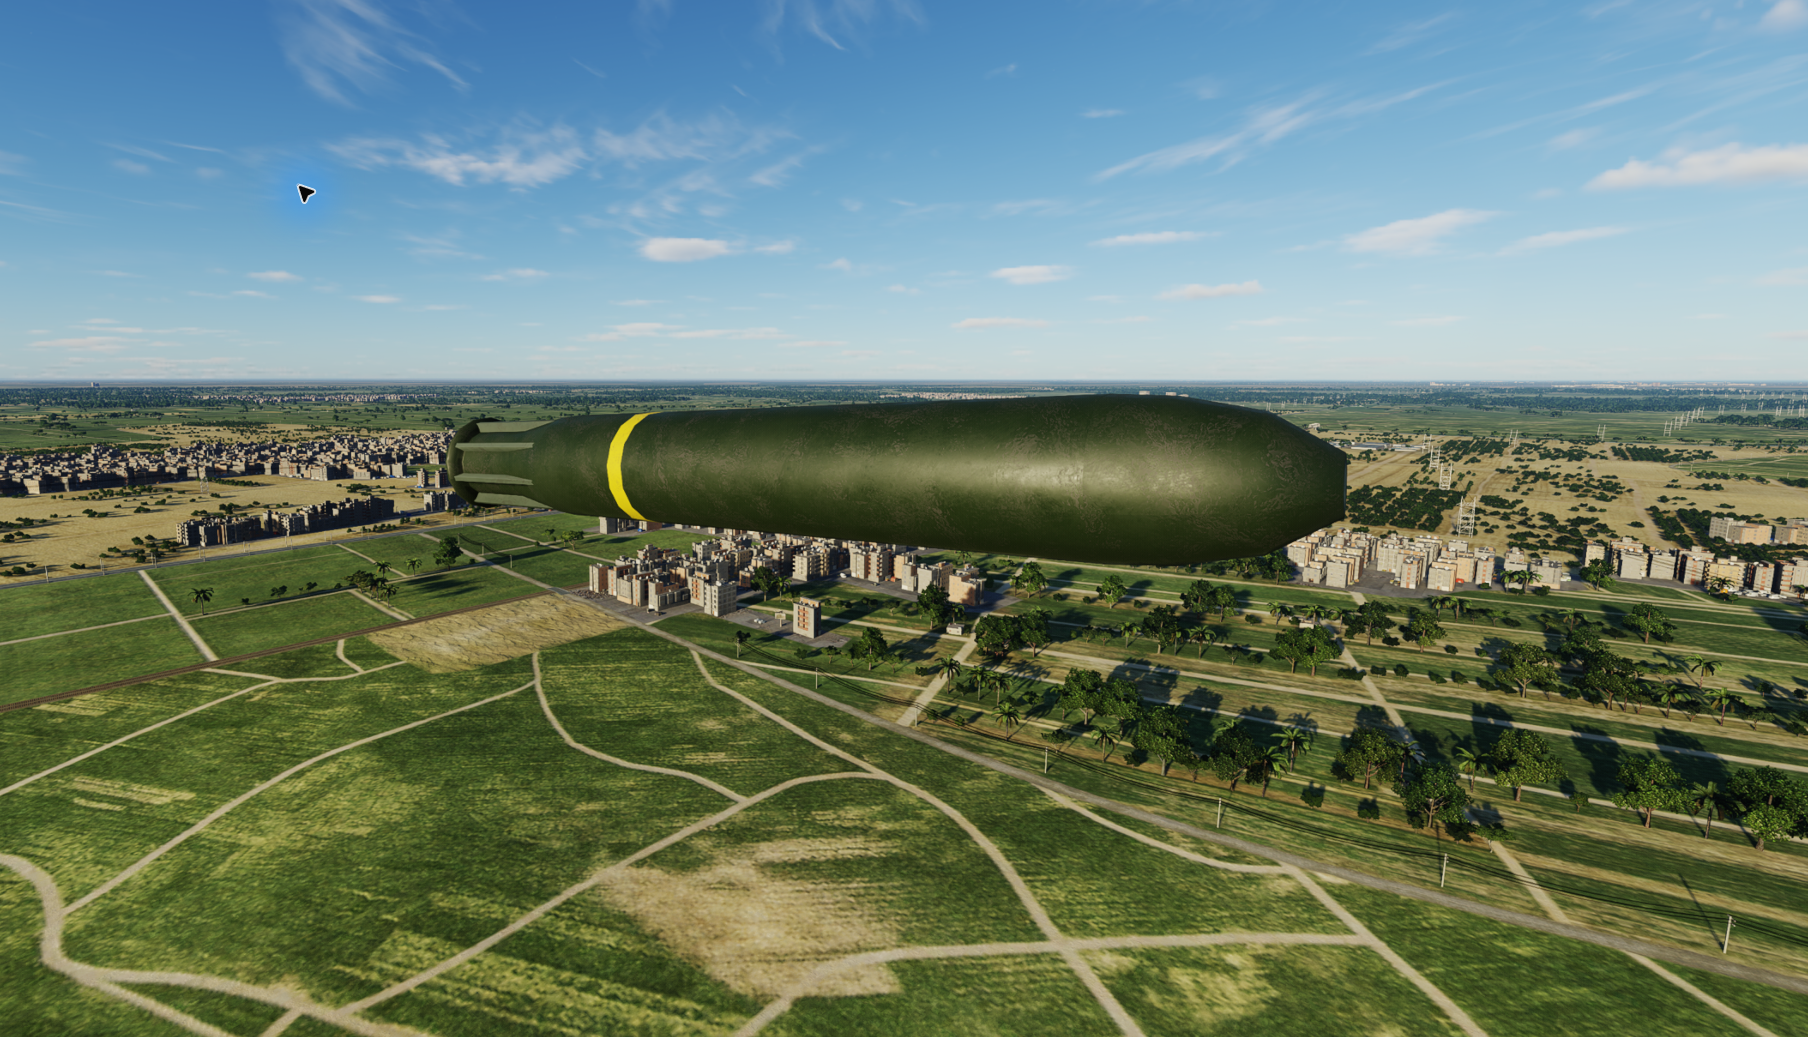
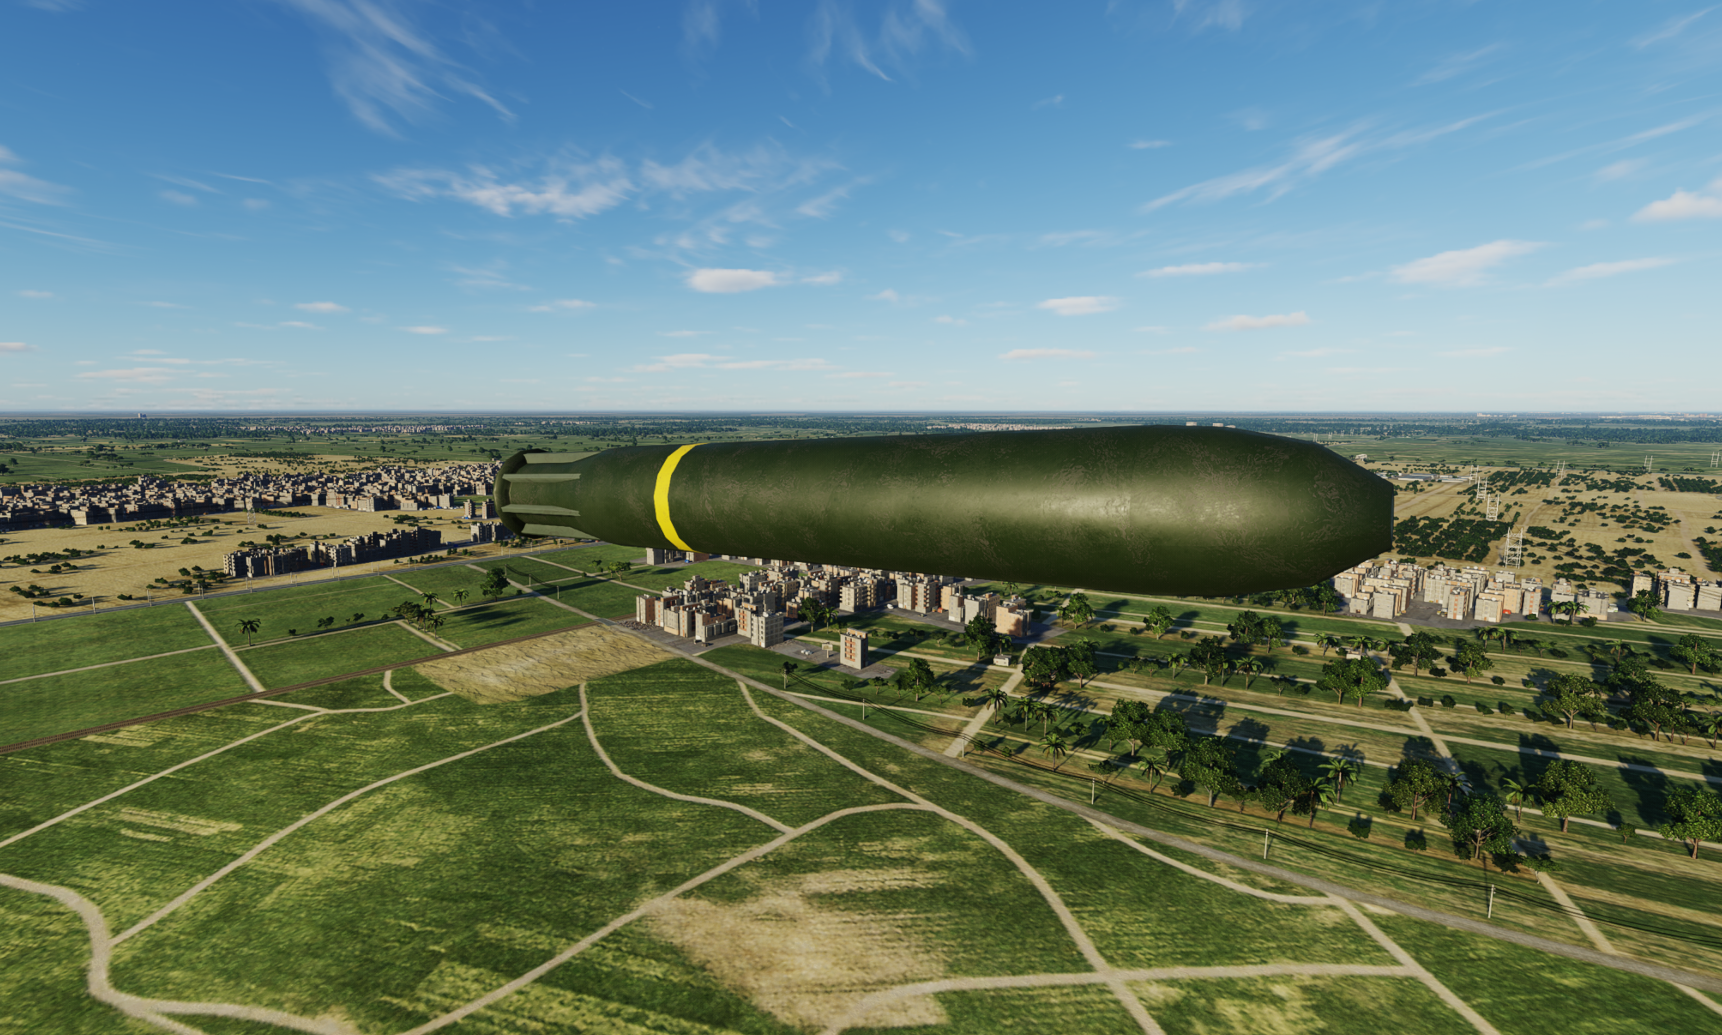
Simplify announcement signup and replace Calliope rocket photo

diff --git a/site/assets/site.css b/site/assets/site.css
@@ -10,7 +10,7 @@ dialog{border:1px solid #d5d8ce;border-radius:6px;background:#f8f7f3;color:#3033
 .development-preview-blurred{overflow:hidden}.development-preview-blurred .mod-photo{filter:saturate(.5) blur(1.75px)}
 .email-signup{width:100%;max-width:576px;margin:56px auto 0}.email-signup>p{font-size:15px}.email-signup .formkit-form{width:100%;max-width:100%;background-color:#23455a!important}
 .email-signup .formkit-form [data-style="minimal"]{padding:32px!important}.email-signup .formkit-form .formkit-header{font-size:22px!important;margin-bottom:22px!important}.email-signup .formkit-form .formkit-header h2{font-size:inherit!important;line-height:1.25!important}.email-signup .formkit-form .formkit-subheader{font-size:15px!important;margin:14px 0!important}.email-signup .formkit-form .formkit-fields{margin-top:20px!important}.email-signup .formkit-form :is(.formkit-field,.formkit-submit){margin-bottom:12px!important}.email-signup .formkit-form .formkit-input{padding:10px!important}.email-signup .formkit-form .formkit-submit>span{padding:10px 20px!important}
-.email-signup .formkit-form .formkit-background{background-image:linear-gradient(#15354b55,#15354b55),url('/assets/images/kit-signup-background.png')!important;background-size:cover!important;background-position:center!important;opacity:1!important}
+.email-signup .formkit-form .formkit-background{background-size:cover!important;background-position:center!important;opacity:1!important;box-shadow:inset 0 0 0 1000px #15354b55}
 .email-signup .formkit-form :is(.formkit-header,.formkit-header h2,.formkit-subheader,.formkit-subheader p,.formkit-guarantee,.formkit-guarantee p,.formkit-label){color:#fff!important}
 .email-signup .formkit-form .formkit-submit{background:#f79e00!important;color:#1d1d1b!important}.email-signup .formkit-form .formkit-submit:hover{background:#e08e00!important}.email-signup .formkit-form .formkit-submit>span{background:transparent!important}
 @media(max-width:1324px){.catalog{grid-template-columns:repeat(3,minmax(0,1fr))}}

diff --git a/email/kit-announcements.html b/email/kit-announcements.html
@@ -3,32 +3,13 @@
   .tpg-email img { max-width: 100%; height: auto; }
   .tpg-email a { color: #43523a; }
   .tpg-email .button { display: inline-block; padding: 12px 20px; background: #f79e00; color: #1d1d1b; text-decoration: none; border-radius: 4px; }
-  .tpg-preferences { margin-top: 28px; padding-top: 20px; border-top: 1px solid #d8dcd3; font-size: 14px; }
-  .tpg-preferences p { margin: 8px 0; }
+  .tpg-footer { margin-top: 28px; padding-top: 20px; border-top: 1px solid #d8dcd3; font-size: 14px; }
+  .tpg-footer p { margin: 8px 0; }
 </style>
 <div class="tpg-email">
   {{ message_content }}
-  <div class="tpg-preferences">
-    <p><strong>Your current engagement level:</strong></p>
-    {% if subscriber.tags contains "Official Mod Release Announcements" %}
-    <p>Official releases only</p>
-    {% endif %}
-    {% if subscriber.tags contains "Official and Release Candidate Announcements" %}
-    <p>Official releases + release candidates only</p>
-    {% endif %}
-    {% if subscriber.tags contains "All Releases, Candidates and Fixes" %}
-    <p>All releases, candidates, fixes and news</p>
-    {% endif %}
-    {% unless subscriber.tags contains "Official Mod Release Announcements" %}
-      {% unless subscriber.tags contains "Official and Release Candidate Announcements" %}
-        {% unless subscriber.tags contains "All Releases, Candidates and Fixes" %}
-        <p>No mod announcement level selected.</p>
-        {% endunless %}
-      {% endunless %}
-    {% endunless %}
-    <p>No sales, and never more than 1x per week at max engagement.</p>
-    <p><a href="{{ subscriber_preferences_url }}">Change alert level</a></p>
-    <p>Choose one level. To switch, uncheck your old level, check your new level, then save your preferences.</p>
+  <div class="tpg-footer">
+    <p>NO sales, once per week at maximum</p>
     <p><a href="{{ unsubscribe_url }}">Unsubscribe</a></p>
     <p>{{ address }}</p>
   </div>

diff --git a/site/assets/kit-signup.js b/site/assets/kit-signup.js
@@ -1,26 +1,17 @@
 export function customizeSignup(form) {
   const copy = [
     ['[data-element="header"] h2', 'Sign Up For Mod Announcements'],
-    ['[data-element="subheader"] p', 'Choose your desired level of engagement below'],
-    ['[data-element="guarantee"] p', 'No sales, and never more than 1x per week at max engagement'],
+    ['[data-element="subheader"] p', 'New releases, alpha candidates, bug fixes and feature enhancements.'],
+    ['[data-element="guarantee"] p', 'NO sales, once per week at maximum'],
   ];
   for (const [selector, text] of copy) {
     const element = form.querySelector(selector);
     if (element && element.textContent !== text) element.textContent = text;
   }
-  const labels = {
-    '24506150': 'Official releases only',
-    '24506152': 'Official releases + release candidates only',
-    '24506154': 'All releases, candidates, fixes and news',
-  };
-  for (const option of form.querySelectorAll('select[name="tags[]"] option')) {
-    const label = labels[option.value];
-    if (label && option.textContent !== label) option.textContent = label;
-  }
 }
 
 // Kit inserts the real subscription form asynchronously. Change only its copy;
-// its action, field names, required selection and tag values remain Kit's own.
+// its action, email field and subscriber handling remain Kit's own.
 if (typeof document !== 'undefined') {
   const container = document.querySelector('.email-signup');
   if (container) {

diff --git a/README.md b/README.md
@@ -87,29 +87,13 @@ Under-development records have no GitHub release link and are excluded from down
 
 ## Kit email signup and sending
 
-The homepage embeds Justin's Kit form (`10029231`, public UID `19030fcb90`). The public form has one required dropdown, **Choose your level of alerts**, with three cumulative options and no checkbox. Kit receives submissions directly; account credentials and subscriber addresses are not stored in this repository. Form changes saved in Kit update the JavaScript embed automatically.
+The homepage embeds Kit form `10029231`, public UID `19030fcb90`. One email signup covers new releases, alpha candidates, bug fixes and feature enhancements. There are no signup tiers. Kit receives subscriptions directly, and credentials and subscriber addresses are not stored in this repository.
 
-| Public option | Kit tag | Tag ID |
-| --- | --- | --- |
-| Official releases only | Official Mod Release Announcements | 24506150 |
-| Official releases + release candidates only | Official and Release Candidate Announcements | 24506152 |
-| All releases, candidates, fixes and news | All Releases, Candidates and Fixes | 24506154 |
+The signup description is **New releases, alpha candidates, bug fixes and feature enhancements.** Its bottom notice is **NO sales, once per week at maximum**. The site module keeps these lines consistent when Kit inserts the form asynchronously.
 
-The third tag's scope includes news. The unused `TPG News` tag was created during setup; it is not part of the final signup form or recipient targeting.
+The default announcement template is `5596707`, **TPG Mod Announcements**. Its source is retained in `email/kit-announcements.html`, with the weekly notice, Unsubscribe and the mailing address.
 
-Manage people and tags in Kit's Subscribers area. For announcements, use one Broadcast with conditional content: official releases for all three levels, release candidates for the second and third, and alpha/test candidates, fixes and news for the third. Filter recipients to tags with relevant content, rather than sending empty emails. Each subscriber should have exactly one engagement-level tag. Resubmitting the signup form must not be offered as a reliable downgrade: adding a lower-level tag can leave the old higher-level tag attached. Resolve conflicting tags before sending; do not infer consent for the broadest level from conflicting tags.
-
-**Preference changes — configured October 11, 2026:** Justin approved Kit's native preference page with checkboxes while keeping the website signup dropdown. Three Topics of Interest are saved, each mapped to the matching existing tag in the table above. Their names match the public options with **(choose one level)** appended. The saved mappings were reopened and verified.
-
-A subscriber changing levels must uncheck the old topic, check the new one and save; native topics do not enforce mutual exclusivity. The account's default HTML template is **TPG Mod Announcements — Engagement Preferences**, ID `5596707` ([Kit editor](https://app.kit.com/account/email_layout_templates/5596707/edit)). Its source is retained in `email/kit-announcements.html`. The footer uses Liquid to show the selected level, the weekly-frequency sentence, **Change alert level**, switching instructions and Unsubscribe. With conflicting tags it displays all selected levels rather than assuming broader consent; resolve conflicts before sending. With no engagement tag it says no level is selected.
-
-**Change alert level** uses `{{ subscriber_preferences_url }}`. Kit generates that subscriber-specific URL at send time; it is not a generic homepage link and does not function in preview emails. The saved HTML was reopened, Kit's layout preview inspected, and local Liquid rendering checked for all eight combinations of the three tags. The layout preview showed all three sample labels; a real subscriber delivery and personal-link round trip have not been tested. No subscriber tags were changed and no emails were sent during this configuration. For future broadcasts, verify this template is selected and preview as the intended subscriber before sending; existing drafts or another explicitly selected template can have a different footer.
-
-References: [Kit subscriber preferences](https://help.kit.com/en/articles/6082488-managing-subscriber-preferences-in-kit) and [personal preference links](https://help.kit.com/en/articles/4600311-subscriber-preferences-link).
-
-**Weekly limit:** at most one announcement email per person in any seven-day period. Before manually scheduling a broadcast, check the previous sent broadcast and all queued sends; leave at least seven days between announcement broadcasts. Use one fixed send time when there are updates, skip empty weeks, and do not use resend-to-unopened or additional announcement sequences. Kit deduplicates overlapping recipients within one broadcast, but tags and this embed do not enforce an account-wide frequency cap across separate sends. No announcement broadcast, sequence or sending automation was created during this signup setup.
-
-If announcement sending is automated later, add a persisted last-send check and duplicate-run protection before enabling it. An API or workflow must not claim that this signup's frequency sentence enforces sending limits. The confirmation email is part of Kit's opt-in flow; announcement delivery has not been tested by sending subscriber emails.
+Send announcements to the confirmed announcements audience without tier filters or conditional tier content. Existing subscriber tags are retained as historical data, not used as signup levels. Combine updates into one announcement and leave at least seven days between sends; check sent and queued broadcasts before scheduling, and skip weeks with no updates. No announcement automation or subscriber email was sent during this change.
 
 ## Official references
 

diff --git a/docs/DESIGN_NOTES.md b/docs/DESIGN_NOTES.md
@@ -19,9 +19,9 @@ Source: Justin's existing hosting conversation and `CODEX_START_HERE.md`. This p
 - Use the supplied package name TPG Containerized SHORAD in public titles. Grizzly is an internal historical identifier, retained only for existing release tags/routes. Show its public version 1.0.23 rather than internal build wording. Do not describe simulated sensors as onboard physical hardware.
 - Do not overwrite old release ZIPs. Use exact mod-specific tags/URLs, not the repository-wide latest release.
 - Keep supplied ZIP names and original display labels. Do not append versions or replace the mod name in asset filenames. GitHub's own space-to-dot normalization is recorded from its returned asset metadata; internal ZIP folders remain unchanged.
-- Kit form 10029231 / UID 19030fcb90 collects email addresses and one required dropdown labeled "Choose your level of alerts". Three cumulative levels: official releases; official releases plus release candidates; all releases, candidates, fixes and news. No separate news checkbox.
+- Kit form 10029231 / UID 19030fcb90 collects an email address for one announcement list. No signup tiers or level choices.
 - Subscribe uses SimpliSafe's current yellow #f79e00 with dark text, scoped to the Kit form. Color verified from https://simplisafe.com/assets/styles-CEJifqbz.css (aegis-yellow-500), October 10, 2026.
-- Email frequency: at most one email per week at the highest alert level; lower levels may receive fewer. Combine relevant items into a single digest, leave at least seven days between announcement broadcasts, and skip sends with no relevant updates. No automatic announcement sending has been configured, and the signup form does not enforce a global sending cap.
+- Email frequency: at most one announcement per week. Combine new releases, alpha candidates, bug fixes and feature enhancements, leaving at least seven days between sends.
 
 ## Available source material
 
@@ -36,13 +36,14 @@ The handoff document was read at `D:/DCS Downloads/CODEX_START_HERE.md`. Its ref
 
 - Photo areas follow each image's natural aspect ratio with no coloured letterboxing or forced 16:9 box. Quick Look photos fit within its available width and 340 px height while preserving their proportions. The third development preview blur is 1.75 px, one quarter of the original strength; no image zoom is applied.
 
-- The on-page Kit signup form background uses Screen_260924_194834.png. Override the embedded form's stock background through scoped CSS, add a translucent dark overlay and white heading/helper labels, and retain the yellow Subscribe button and actual preference/subscription fields. Original screenshot bytes are unchanged.
+- The signup background follows the image selected in Kit. Preserve it when editing signup copy; the website adds a dark overlay and white text without replacing the native image. Retain the yellow Subscribe button.
 
 - The main catalog uses up to 1,800 px on wide screens. The bottom signup box is centered and capped at 576 px (20% narrower than its previous 720 px), with reduced type and spacing. Remove the extra Email updates heading and weekly-frequency paragraph above the box.
-- On-page signup copy: Sign Up For Mod Announcements; Choose your desired level of engagement below; No sales, and never more than 1x per week at max engagement. A scoped module adjusts Kit's asynchronously embedded copy and option labels while preserving its real form action, field names, tag IDs, required selection and subscriber handling. Tier labels: Official releases only; Official releases + release candidates only; All releases, candidates, fixes and news. The direct Kit form and internal tag names remain Kit-managed.
+- Signup copy: Sign Up For Mod Announcements; New releases, alpha candidates, bug fixes and feature enhancements.; NO sales, once per week at maximum. The scoped module preserves native Kit subscription handling.
 
 - Catalog sections share the same responsive column widths: four on wide screens, then three, two and one as space narrows. A section with fewer items fills columns from the left; two Alpha cards must have the same width as Released cards, without stretching across the whole row. Images retain their natural proportions.
 
-- October 11: Justin approved Kit's native checkbox preference page for later level changes, while retaining the single dropdown for signup. Three topics map to the existing three tags and say "choose one level". The default Kit HTML template, TPG Mod Announcements — Engagement Preferences (5596707), displays the selected level and a personalized Change alert level link. Its instructions explicitly say to uncheck the old level, check the new one and save. Preserve this distinction; native topics do not enforce exactly one level. Resolve conflicting tags before sending, never infer broader consent. Template source is in email/kit-announcements.html; real subscriber delivery and preference-link testing are still pending.
+- October 11 signup simplification supersedes the earlier tier design. Remove the signup dropdown, native tier topics and engagement footer. Keep subscriber data and the Unsubscribe link.
 
 - October 11 site copy update: show the approved Released and Alpha bylines once below each catalog heading. Remove configured-versus-tested caveats, technical source-file dropdowns and visible gallery captions across the website. Retain image alt text, model credits, historical research links and practical operating instructions.
+- October 11 rocket photo replacement: use the supplied cursor-free M8 flight screenshot at /assets/images/calliope-m8.png in Quick Look and More Info. Preserve the signup image.

diff --git a/docs/SETUP_STATUS.md b/docs/SETUP_STATUS.md
@@ -20,9 +20,9 @@ Verified live:
 - Cloudflare Web Analytics enabled, with its injected beacon verified on the deployed site.
 - Download-count workflow successfully ran manually and on published releases.
 - Six real ZIPs uploaded and published; GitHub asset checksums verified. Every public download was fetched without authentication and its SHA-256 matched the supplied original ZIP or, for Shahed-238, the ZIP verified against all 58 supplied folder files.
-- Kit signup form configured with one required alert-level dropdown and three cumulative preferences. Its public endpoint confirms real tag IDs and no news checkbox. The homepage includes the supplied JavaScript embed and a direct form link when JavaScript is disabled. On-page wording is customized by site/assets/kit-signup.js; tier selection and serialized values were checked against the real embed, including early and late form insertion. The box is 576 px wide and centered, and the catalog expands to 1,800 px on wide screens. No announcement sending or automatic frequency enforcement has been configured; the weekly send procedure is in README.md.
+- Kit form `10029231` / UID `19030fcb90` uses one email signup, without a tier selector. The homepage embeds the real subscription form with a direct fallback link. Its box remains centered and capped at 576 px.
 
-Kit preference update verified October 11, 2026: all three native Topics of Interest are saved and mapped to the existing signup tags, with "choose one level" in each topic name. The website retains its required dropdown. HTML template `5596707`, **TPG Mod Announcements — Engagement Preferences**, is saved and marked as the account default. Its footer shows selected engagement levels, a personalized Change alert level link, switching instructions and Unsubscribe. Saved HTML and Kit's layout preview were inspected; local Liquid rendering passed for all eight tag combinations. Source is retained in `email/kit-announcements.html`. Native preferences require unchecking the old level before selecting the new one; exclusivity and the weekly announcement cap are not automatic. No emails were sent or subscriber tags changed during this configuration, and actual delivery/personal preference-link navigation remains untested.
+October 11 signup simplification: signup tiers and the native tier topics are removed. Copy is **New releases, alpha candidates, bug fixes and feature enhancements.** and **NO sales, once per week at maximum**. The announcement footer retains the weekly notice, Unsubscribe and mailing address. Subscriber records and historical tags remain intact; no announcement emails were sent.
 
 Current confirmed inventory:
 
@@ -56,3 +56,5 @@ When resuming, use this checkout and repository rather than creating another pro
 ## Calliope Alpha Candidate - October 11, 2026
 
 TPG T34 Calliope 1.1.5 is published as `t34-calliope-v1.1.5`. The release contains 91 runtime files and a player-facing README; its unauthenticated public ZIP download matches the packaged SHA-256. It is the third Alpha candidate, bringing the available-mod count to seven. The Calliope tile and Quick Look show gameplay screenshots only. More Info leads with the same screenshots, followed by custom features, the armor/IR/wreck profiles and the OS 9-69 research cover. The original seven supplied images are unchanged. Browser checks cover image order, successful loading, dialog dismissal and mobile width.
+
+October 11 image update: replaced the Calliope M8 flight photo with the supplied cursor-free screenshot. Source bytes and hash are recorded in IMAGE_VERIFICATION.json.
